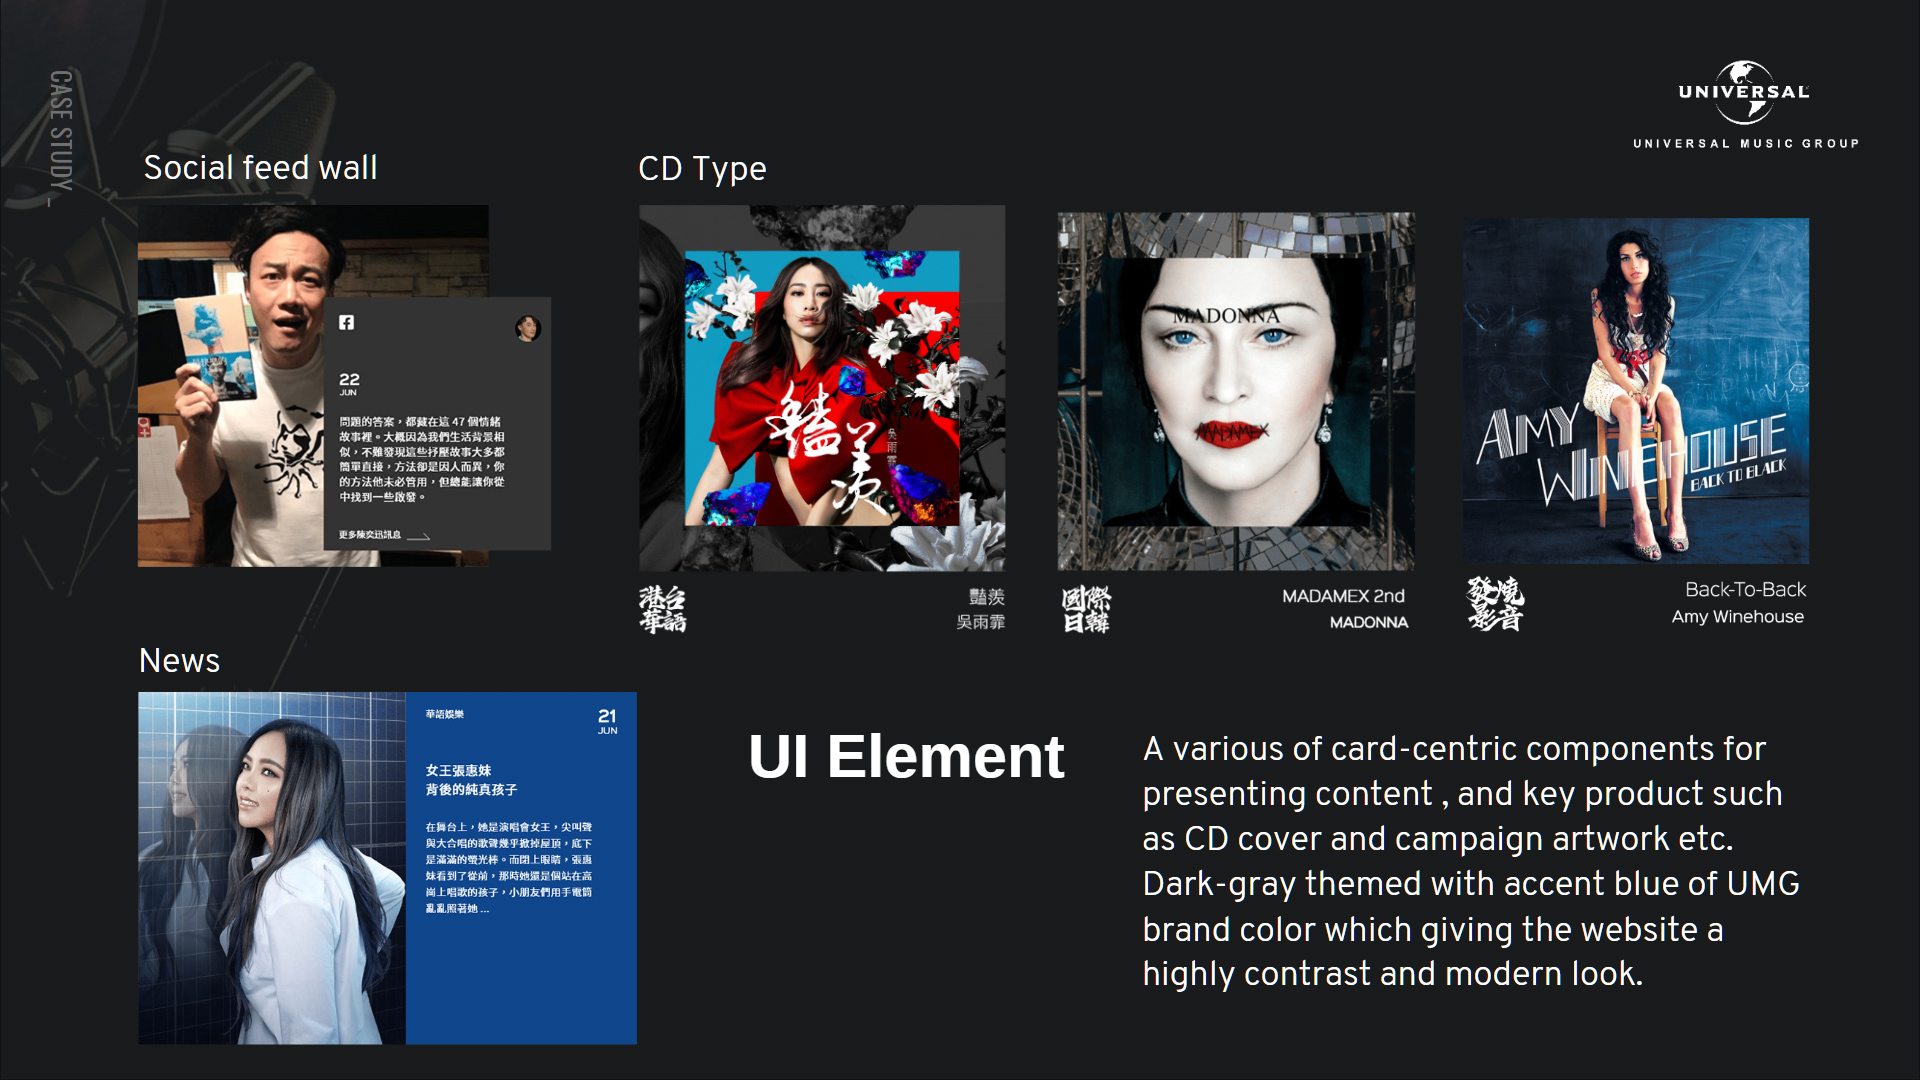
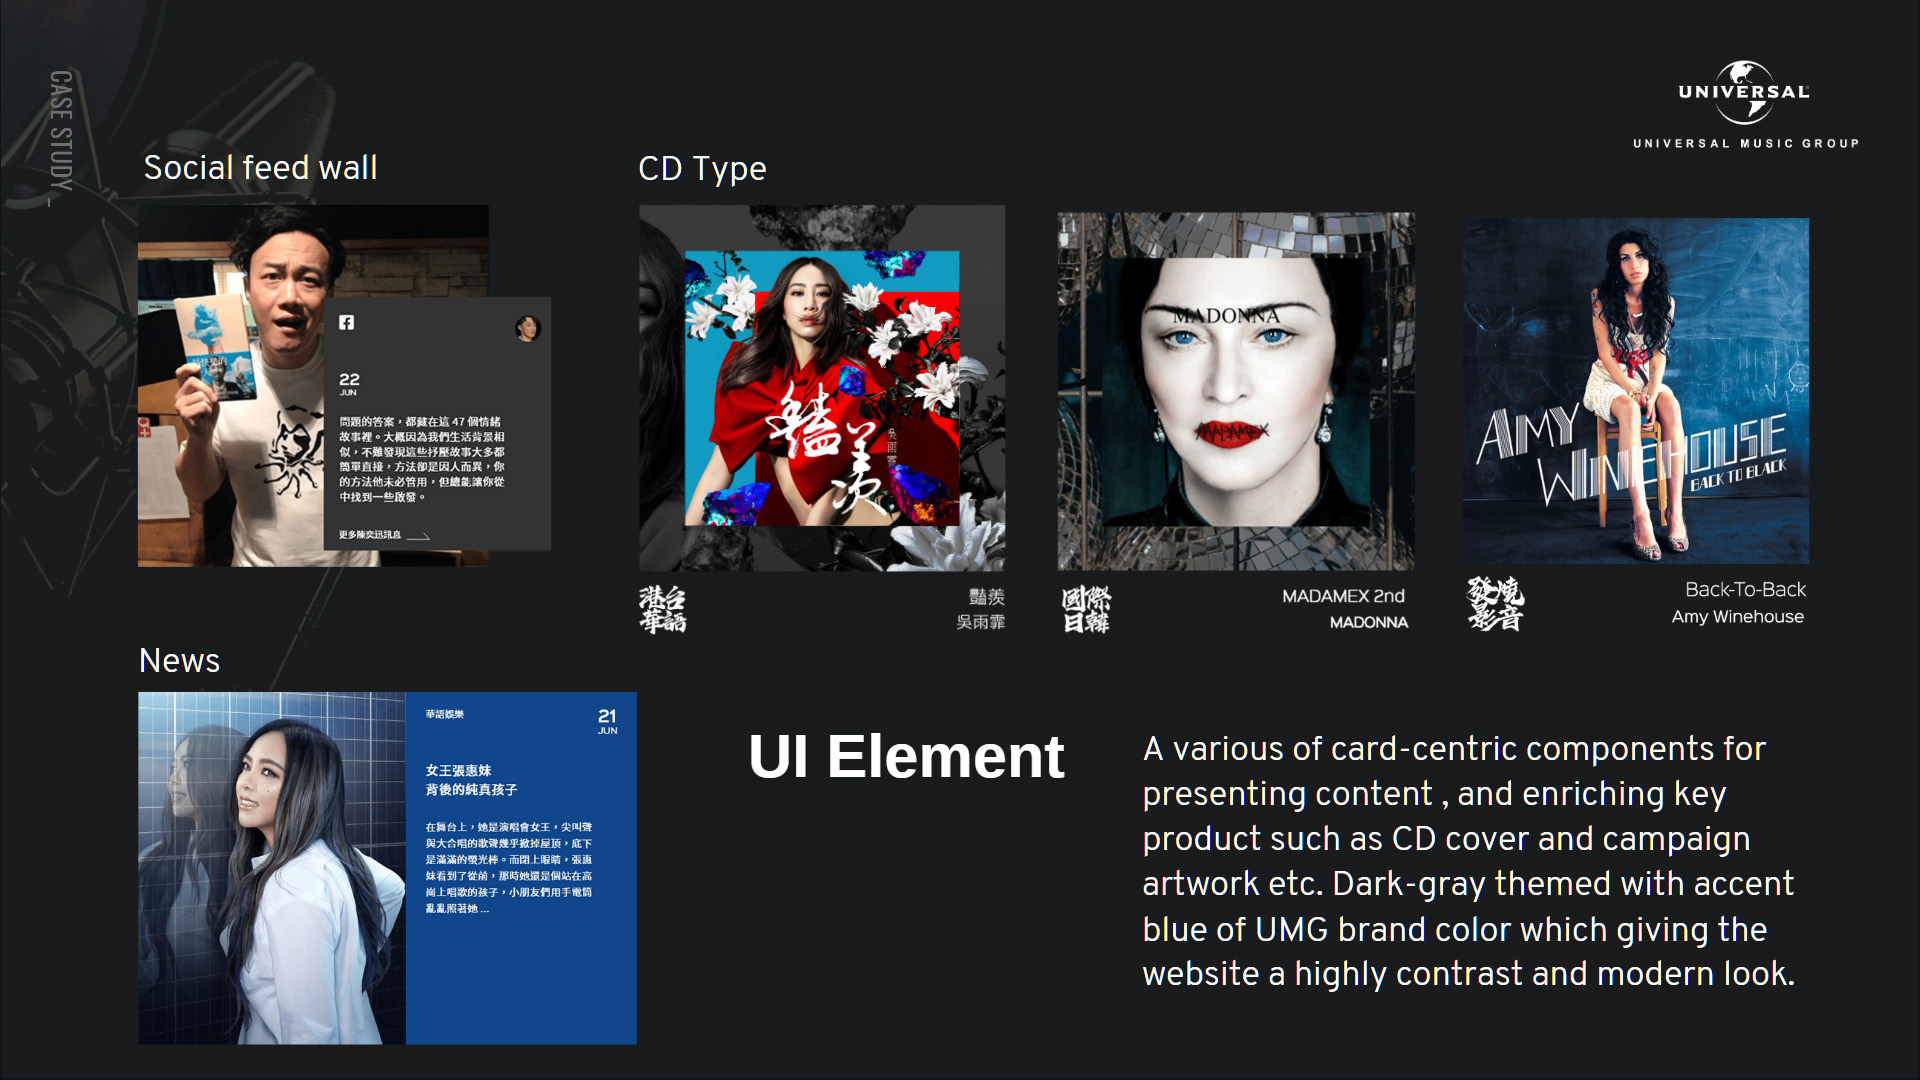
0709_01

Changed region(s): [[0.5938, 0.7028, 0.9375, 0.9167]]

diff --git a/project/umg_hk.html b/project/umg_hk.html
@@ -502,7 +502,7 @@
       <p class="observable h1 spacing-sub-title">Optimizing the brand online experience</p>
       <p class="observable body spacing-small">Whole new website structure to distribute content more easier to browsing by grid-based hierarchy. It would be useful because it flex to both immediate and future website extending. By designing responsive framework, that across different devices which is rapidly way to reduce users bouncing occurs.</p>
 
-      <p class="observable body spacing-small">As prototyping shown, Entire major visual was match well with the overall vibe in music branding. Utilized dark-gray themed with accent blue of UMG brand color which giving the website a highly contrast and modern look. A various of card-centric components for presenting content and key product such as CD cover and campaign artwork etc. This would have been great with UMG that have the tremendous content images assets. <span class="material-icons" style="font-size:15px; top: 2px; padding-right: 2px; padding-left: 2px;">open_in_new</span> <a class="image-popup-fit-width underlined" title="Click on image to enlarge/reduce it"  href="../images/projects/umg_hk/ui_element.jpg">Detail</a></p>
+      <p class="observable body spacing-small">As prototyping shown, Entire major visual was match well with the overall vibe in music branding. Utilized dark-gray themed with accent blue of UMG brand color which giving the website a highly contrast and modern look. A various of card-centric components for presenting content and enriching key product such as CD cover and campaign artwork etc. This would have been great with UMG that have the tremendous content images assets. <span class="material-icons" style="font-size:15px; top: 2px; padding-right: 2px; padding-left: 2px;">open_in_new</span> <a class="image-popup-fit-width underlined" title="Click on image to enlarge/reduce it"  href="../images/projects/umg_hk/ui_element.jpg">Detail</a></p>
 
       <p class="observable body spacing-large">In order to interact well with users, I created audio player widget to the website that getting people to listen to a new single. When hovering, this area will show related CD album. Users can not only hear new release music but also its bring to Ushop.com boost up CD sales intent. Beside, As release center "UMG PRESS" is consist of official news and artist's social content where is interchange navigating between the child page when user pulling down by click-through. <span class="material-icons" style="font-size:15px; top: 2px; padding-right: 2px; padding-left: 2px;">open_in_new</span> <a class="image-popup-fit-width underlined" title="Click on image to enlarge/reduce it"  href="../images/projects/umg_hk/ui_interact.png">Detail</a></p>
     </div>
